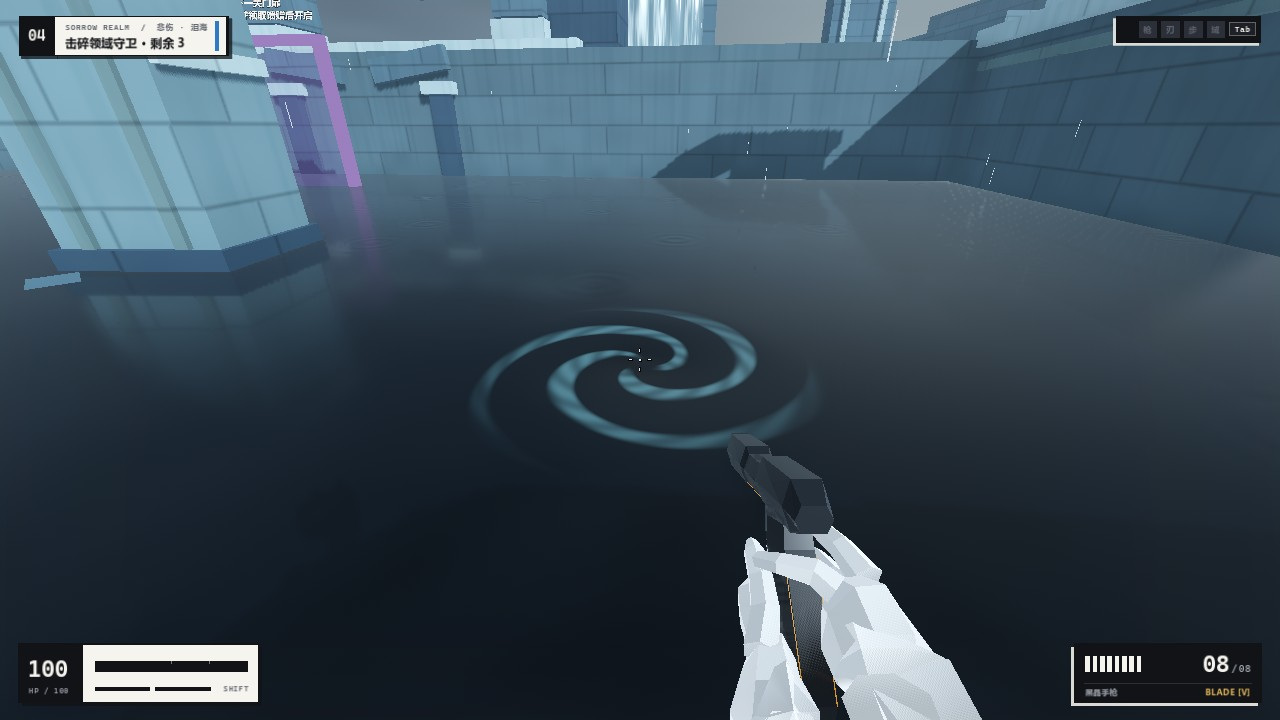
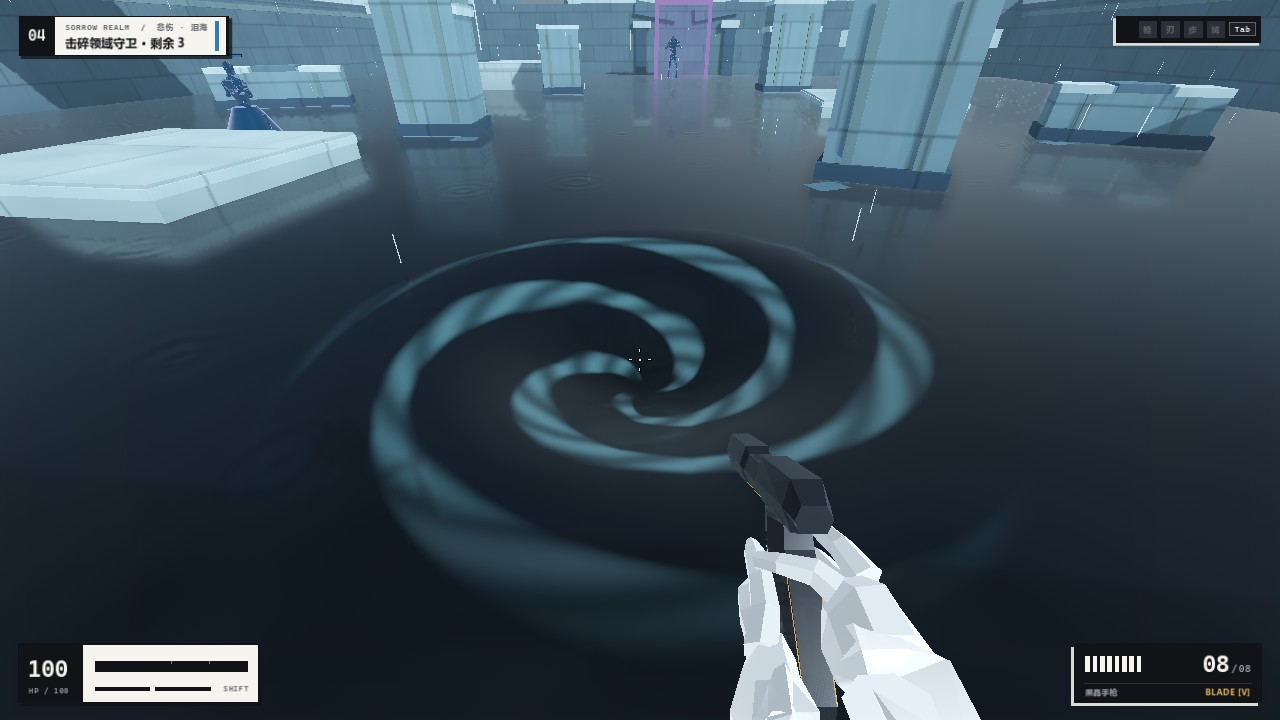
Make Sorrow whirlpools recurring currents with deep funnels

diff --git a/docs/proof/whirlpool-stasis/README.md b/docs/proof/whirlpool-stasis/README.md
@@ -1,14 +1,15 @@
-# 悲伤小漩涡与怠惰减速阵
+# 悲伤漩涡与怠惰减速阵
 
 基于 #254 合并后的主线 `ac41094`。
 
-- 悲伤前两关开场各出现一个半径 1.35 米的水面漩涡。从 8 处避开掩体的浅水点中按本局种子与关号抽取，每轴偏移最多 0.35 米。漩涡为水面特效，行走不受影响。
-- 怠惰锚定者的减速阵生效时，阵内移动速度为 75%，Shift 冲刺无法启动且保留充能。预警期和离开阵后可以冲刺。
+- 悲伤前两关开场出现第一个漩涡，此后每 5 秒随机生成一个。每个持续 15 秒，因此最多三个同时存在。每个半径 2.6 米，位置从 13 处避开掩体的浅水区域抽取。
+- 漩涡的水面网格可向下弯曲 0.60 米，带流向中心的涡纹和水脊。玩家站在水中时受到水平吸力，默认峰值 1.25 米/秒，并限制在当前步行速度的 48% 以内。实测逆着水流步行即可离开。
+- 怠惰锚定者的减速阵生效时，阵内步行速度为 75%，Shift 冲刺无法启动且保留充能。预警期和离开阵后可以冲刺。
 
 | 悲伤第一关 | 悲伤第二关 |
 | --- | --- |
-| ![第一关浅水漩涡](sorrow-1.jpg) | ![第二关浅水漩涡](sorrow-2.jpg) |
+| ![第一关的立体水面漩涡](sorrow-1.jpg) | ![第二关的立体水面漩涡](sorrow-2.jpg) |
 
-Godot 4.7.2 Forward+ 实机检查通过。悲伤场景 39 项，包括落点、中央与侧路、实机领卡和按 F 过门。怠惰敌人 65 项，包括向实际玩家发送 Shift 动作、验证充能和出阵冲刺距离。回归覆盖战役 98 项、冲刺 49 项、怠惰战斗 48 项及悲伤水面 32 项。
+Godot 4.7.2 Forward+ 实机检查通过。悲伤场景 57 项，包括漩涡生成和到期、站定受到吸力与徒步出圈、中央与侧路、实机领卡和按 F 过门。怠惰敌人 65 项，包括阵内按 Shift 保留充能以及出阵恢复原冲刺距离。
 
 [悲伤实机日志](sorrow-native.log) · [怠惰实机日志](sloth-native.log)

diff --git a/GLOSSARY.md b/GLOSSARY.md
@@ -2,7 +2,7 @@
 
 ## 2026-11-23 悲伤漩涡与迟缓阵
 
-- 小漩涡在悲伤前两关各出现一次，半径 1.35 米。开场由本局种子和房号在八处浅水位置中选定，随镜潭水面一起暂停与退去。
+- 悲伤前两关的漩涡半径 2.6 米，水面下陷 0.60 米。开场出现一个，随后每 5 秒在不同浅水位置随机生成一个，每个持续 15 秒，同时最多三个。浅水中的玩家会被缓慢拉向中心，吸力最高 1.25 米/秒，并受当前步行速度 48% 的上限约束。
 - 怠惰锚定者的迟缓阵生效后，阵内走路速度为原来的 75%，Shift 冲刺暂时锁定。预警阶段可冲刺。离开或阵消散后恢复冲刺，阵内按键和等待都不会额外消耗充能。
 
 ## 2026-11-23 愤怒熔岩坑
